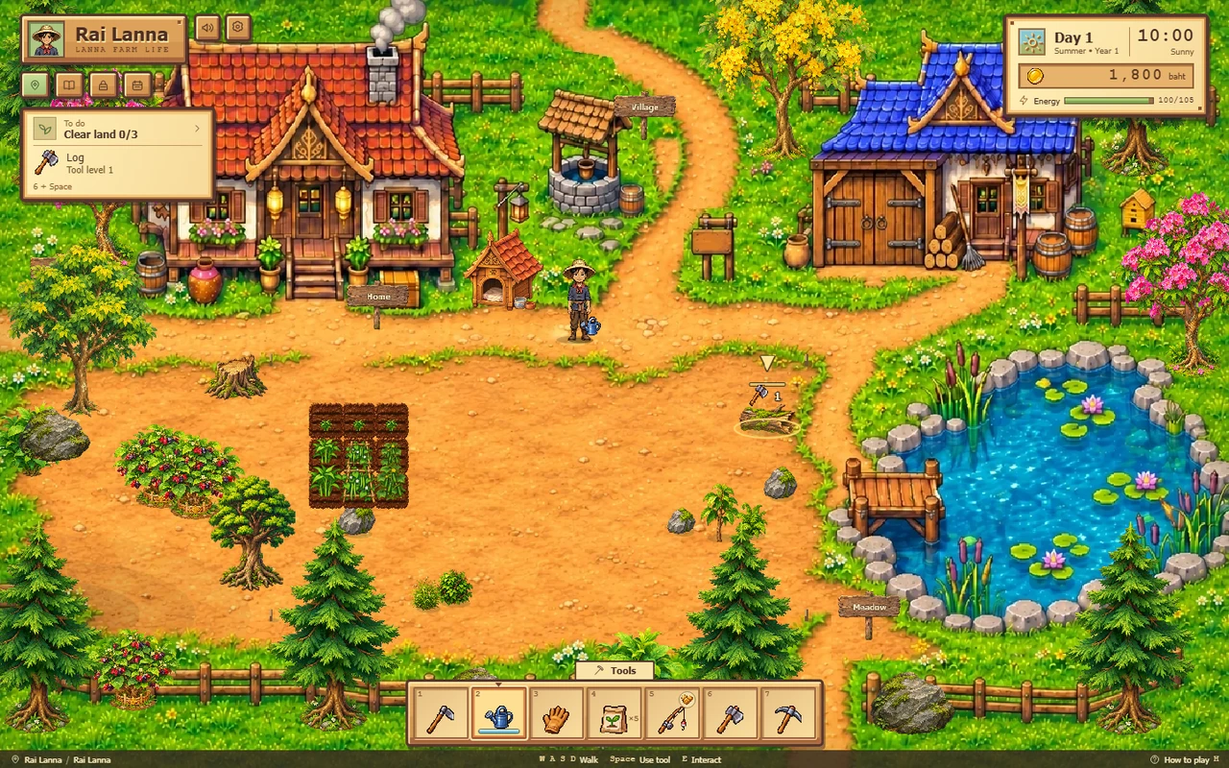
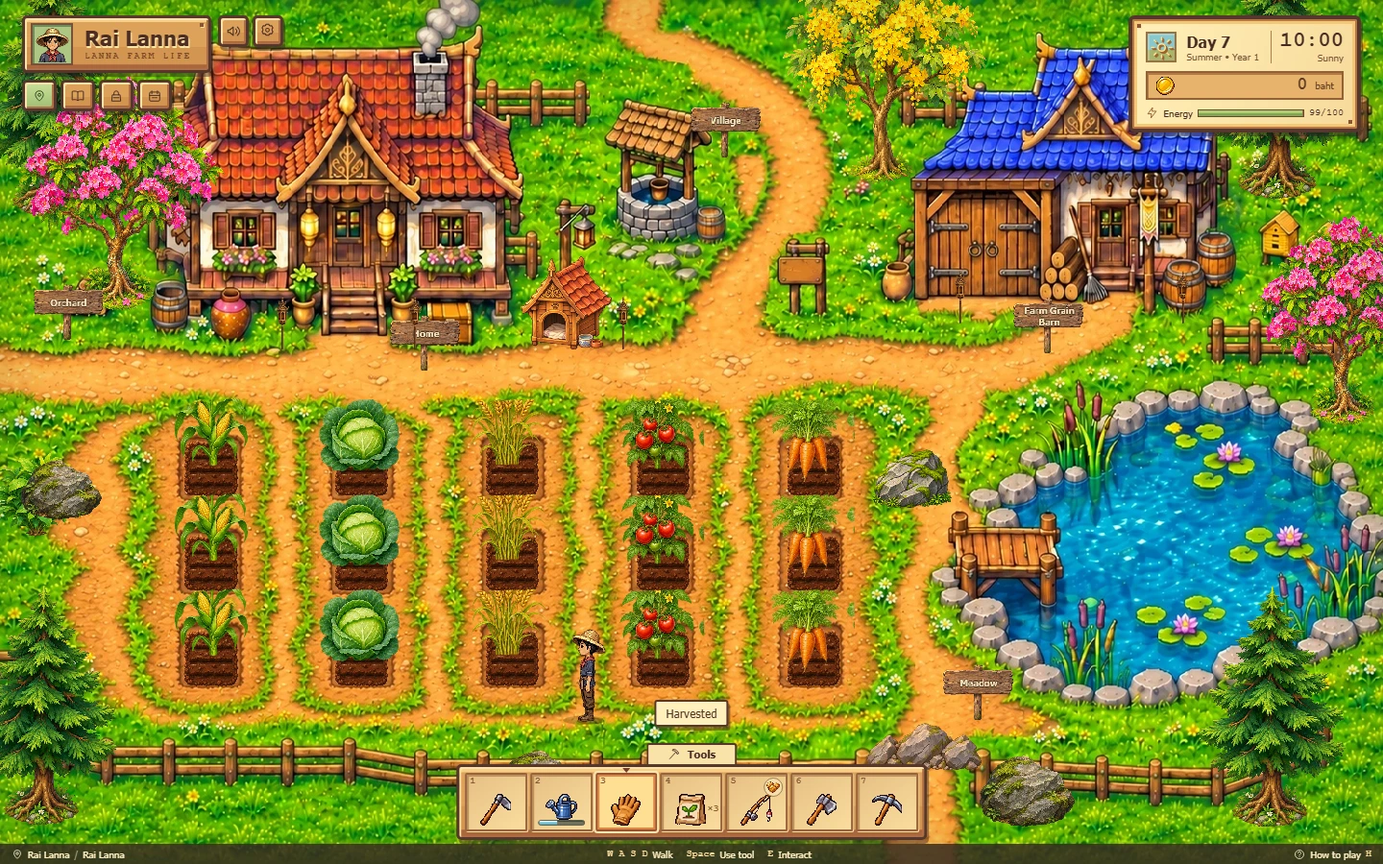
docs: update bilingual README with current crops, grain barn and ranch images
Refresh farm and greenhouse screenshots and document four crop growth stages,
wheat processing and feed, the domestic pig, and nighttime building lanterns.
Update the crop reference to 30 species and ranch count to 16, with item icons.

Publish only README files and the documentation media they reference.

diff --git a/README.th.md b/README.th.md
@@ -34,13 +34,13 @@
 
 <table>
   <tr>
-    <td align="center" width="25%">🌱<br><b>29</b><br>ชนิดพืช</td>
+    <td align="center" width="25%">🌱<br><b>30</b><br>ชนิดพืช</td>
     <td align="center" width="25%">🎣<br><b>43</b><br>ชนิดสัตว์น้ำ</td>
     <td align="center" width="25%">🥭<br><b>15</b><br>ชนิดไม้ผล</td>
     <td align="center" width="25%">💎<br><b>15</b><br>ชนิดแร่</td>
   </tr>
   <tr>
-    <td align="center" width="25%">🐄<br><b>15</b><br>ชนิดสัตว์ในคอก</td>
+    <td align="center" width="25%">🐄<br><b>16</b><br>ชนิดสัตว์ในคอก</td>
     <td align="center" width="25%">🏮<br><b>7</b><br>งานประเพณีต่อปี</td>
     <td align="center" width="25%">👥<br><b>36</b><br>ชาวบ้าน</td>
     <td align="center" width="25%">🌦<br><b>4 · 5</b><br>ฤดู · แบบอากาศ</td>
@@ -54,23 +54,21 @@
 > ภาพทุกภาพในหน้านี้ถ่ายจากเกมจริง บางภาพจัดฉากก่อนถ่าย (ปลูกพืชไว้แล้ว ซื้อสัตว์ไว้แล้ว) เพื่อให้ภาพเดียวเห็นทั้งระบบ
 
 > ภาพและฟีเจอร์อ้างอิงรุ่นพัฒนาปัจจุบัน การอัปเดตครั้งนี้เผยแพร่เฉพาะเอกสารและภาพประกอบ โค้ดเกมรุ่นใหม่ยังไม่ถูกรวม
-> ภาพหน้าจอถ่ายใหม่จากเกมที่รันอยู่เมื่อ 15 พฤศจิกายน 2026 ไอคอนในตารางใช้รูปไอเทมจากเกมจริง
+> ภาพฟาร์ม เรือนกระจก ข้าวสาลี โรงฟัดข้าว หมูบ้าน และโคมไฟกลางคืนถ่ายจากเกมที่รันอยู่เมื่อ 16 พฤศจิกายน 2026 ภาพอื่นแสดงระบบที่ยังเหมือนเดิม ไอคอนในตารางใช้รูปไอเทมจากเกมจริง
 
 ## 🆕 ส่วนที่เพิ่มล่าสุด
 
-- ศูนย์วิจัยผลไม้ขนาดใกล้เคียงบ้านชาวบ้านพร้อมถนนทางเข้าในป่าผักหวาน บ้านหลังคาแดงเลื่อนขึ้นด้านบน
-- ภาพเทศกาล7ธีมเปลี่ยนทั้งหมู่บ้าน ตลาด ตลาดสด ปศุสัตว์และบ้าน NPC กลับเป็นฉากปกติเมื่อหมดงานหรือมีพายุ
-- แปลงสองมีความสำเร็จสำหรับปลดล็อก และมีโรงเรือนลับที่ป้องกันฝนเสียหาย แมลง และวัชพืช แต่ยังต้องรดน้ำ
-- แมลงและวัชพืชเริ่มเมื่อเลเวล 10 ทำบุญถวายผลผลิตได้ทุก 7 วัน รับโชค +3 นาน 7 วันและไม่ซ้อนทับกัน
-- ปศุสัตว์ไม่มีเงื่อนไขเลเวลหรือเทศกาลในการซื้อ แต่สัตว์และอาหารราคาแพง สุนัข/แมวใช้เงื่อนไขรับเลี้ยงแยกต่างหาก
+- **ช่องปลูกขนาดใหม่:** หน้าบ้านและเรือนกระจกจัดเป็น 5 คอลัมน์ คอลัมน์ละ 3 ต้น มีทางเดินระหว่างแปลง ช่องใหญ่ขึ้น 1.5 เท่า และภาพพืชโตเต็มที่ใหญ่ขึ้น 2 เท่าจากรุ่นก่อน ต้องพรวนดินก่อนหว่านเมล็ด
+- **พืช 30 ชนิด เติบโต 4 ระยะ:** เมล็ด → ต้นอ่อน → ต้นยังโตไม่เต็ม → โตเต็มที่พร้อมเก็บเกี่ยว เพิ่มข้าวสาลีเป็นชนิดล่าสุด
+- **โรงฟัดข้าวใช้งานได้:** ซื้อสัตว์ปศุสัตว์ตัวแรกเพื่อเปิดโรงเรือนหลังคาฟ้าข้างบ้าน นำข้าวสาลีไปฟัดเป็นเมล็ดสะอาดสำหรับเลี้ยงสัตว์
+- **ปศุสัตว์ 16 ชนิด:** เพิ่มหมูบ้านสีชมพูแยกจากหมูป่าเลี้ยง ให้อาหารแล้วได้รับปุ๋ยคอกหมู
+- **โคมไฟกลางคืน:** หน้าบ้านตัวเอก โรงฟัดข้าว บ้านสัตว์ บ้าน NPC และอาคารสาธารณะมีโคมไฟ ส่องสว่างเวลา 18:00–05:59
+- **เรือนกระจกและช่วงเริ่มเกม:** แปลงสองและเรือนกระจกลับมีเงื่อนไขความก้าวหน้าสำหรับปลดล็อก เรือนกระจกมีบ่อเติมบัวรดน้ำ ปลูกได้ทุกฤดู ป้องกันแมลง วัชพืช และความเสียหายจากอากาศ แปลงภายนอกเริ่มมีแมลงและวัชพืชในพืชเมื่อเลเวล 10 ทำบุญได้ทุก 7 วัน รับโชค +3 นาน 7 วันและไม่ซ้อนทับกัน
 
-<table><tr><td width="50%"><img src="docs/readme/research-center-th.webp" alt="research-center"></td><td width="50%"><img src="docs/readme/research-shop-th.webp" alt="research-shop"></td></tr></table>
-
-<table><tr><td width="50%"><img src="docs/readme/festival-village-th.webp" alt="festival-village"></td><td width="50%"><img src="docs/readme/festival-ranch-th.webp" alt="festival-ranch"></td></tr></table>
-
-<table><tr><td width="50%"><img src="docs/readme/festival-market-th.webp" alt="festival-market"></td><td width="50%"><img src="docs/readme/greenhouse-th.webp" alt="greenhouse"></td></tr></table>
-
-<table><tr><td width="50%"><img src="docs/readme/early-crops-th.webp" alt="early-crops"></td><td width="50%"><img src="docs/readme/weekly-merit-th.webp" alt="weekly-merit"></td></tr></table>
+<table>
+  <tr><td width="50%"><img src="docs/readme/greenhouse-th.webp" alt="แปลงเรือนกระจกขนาดใหม่และบ่อเติมน้ำ"></td><td width="50%"><img src="docs/readme/wheat-threshing-th.webp" alt="ฟัดรวงข้าวสาลีเป็นเมล็ดสำหรับเลี้ยงสัตว์"></td></tr>
+  <tr><td align="center">แปลงเรือนกระจกขนาดใหม่และบ่อเติมน้ำ</td><td align="center">ฟัดรวงข้าวสาลีเป็นเมล็ดสำหรับเลี้ยงสัตว์</td></tr>
+</table>
 
 ## 🚀 เริ่มเล่น
 
@@ -164,12 +162,20 @@ npm run dev
 
 ### 🌱 ฟาร์ม พืช และอากาศ
 
-- **พืช 29 ชนิด** ปลูกในแปลงข้างบ้านและรดน้ำทุกวัน เมล็ดขายที่ร้านเมล็ดพันธุ์ในกาดเวียงคำ ราคาและเวลาโตต่างกันไปตามชนิด
+- **พืช 30 ชนิด** พรวนดินเป็นช่อง หว่านเมล็ด และรดน้ำในแต่ละวัน แปลงหน้าบ้านมีช่องปลูกขนาดใหญ่ 15 ช่อง จัดเป็น 5 คอลัมน์ คอลัมน์ละ 3 ต้น พร้อมทางเดิน ซื้อเมล็ดได้ที่ร้านเมล็ดพันธุ์ในกาดเวียงคำ
+- **เห็นการเติบโต 4 ระยะ** หว่านแล้วเห็นเมล็ด ก่อนกลายเป็นต้นอ่อน ต้นยังโตไม่เต็ม และต้นโตเต็มที่ ระยะเติบโตเพิ่มตามวันที่ได้รับน้ำ ข้าวสาลีใช้ 6 วัน ปลูกได้ในฤดูหนาว ใบไม้ผลิ และร้อน
 - **4 ฤดู** ร้อน → ใบไม้ร่วง → หนาว → ใบไม้ผลิ ฤดูละ 14 วัน (ปีละ 56 วัน) พืชที่ทนฤดูใหม่ไม่ได้จะเหี่ยว และเกมเตือนล่วงหน้า 3 วัน
 - **อากาศ 5 แบบ** แดด ฝน แดดจัด พายุฝน และหิมะ มีพยากรณ์ของวันพรุ่งนี้เสมอ ฝนรดน้ำแปลงให้ พายุทำให้พืชเฉาได้ แดดจัดทำให้ทุกงานเหนื่อยขึ้น
-- **กลางวันกลางคืน** ท้องฟ้ามืดลงตามเวลา และโคมไฟที่วางไว้จะสว่างหลังพลบค่ำ
-- **เติมน้ำบัวรดน้ำ** เติมหนึ่งครั้งรดได้ 10 ช่อง หรือ 20 ช่องเมื่อใช้บัวทองแดง แถบสีฟ้าใต้รูปบัวแสดงระดับน้ำ เลือกบัวที่บ่อในไร่ สระ หรือชายทะเลเพื่อเติมน้ำ
+- **กลางวันกลางคืน** ท้องฟ้ามืดลงตามเวลา โคมไฟหน้าอาคารและโคมที่ผู้เล่นวางส่องสว่างเวลา 18:00–05:59
+- **เติมน้ำบัวรดน้ำ** เติมหนึ่งครั้งรดได้ 10 ช่อง หรือ 20 ช่องเมื่อใช้บัวทองแดง แถบสีฟ้าใต้รูปบัวแสดงระดับน้ำ เลือกบัวที่บ่อในไร่ สระ ชายทะเล หรือบ่อในเรือนกระจกเพื่อเติมน้ำ
 - **กระเป๋าเป็นรูปไอเทม** หน้าต่างกระเป๋ามีขนาดกะทัดรัด แสดงของเป็นช่องรูปเล็ก เลือกแท็บหมวดหมู่และปุ่มก่อนหน้า–ถัดไปเพื่อดูของโดยไม่ต้องเลื่อนขึ้นลง เริ่ม 15 ช่อง นับหนึ่งช่องต่อชนิด ของชนิดเดิมเพิ่มจำนวนได้แม้กระเป๋าเต็ม ซื้อเพิ่มจากต้นกล้าครั้งละ 10 ช่องจนถึง 150 ช่อง ครั้งสุดท้ายเพิ่ม 5 ช่อง ราคาทวีคูณจาก ฿200 จนถึง ฿1,638,400 ในการซื้อครั้งที่ 14
+
+ภาพขยายจากแปลงข้าวสาลีเดียวกันในเกมจริง แสดงแต่ละระยะการเติบโต
+
+<table>
+  <tr><td width="25%"><img src="docs/readme/wheat-seeds.webp" alt="1 · เมล็ด"></td><td width="25%"><img src="docs/readme/wheat-seedling.webp" alt="2 · ต้นอ่อน"></td><td width="25%"><img src="docs/readme/wheat-young.webp" alt="3 · ยังโตไม่เต็ม"></td><td width="25%"><img src="docs/readme/wheat-ripe.webp" alt="4 · พร้อมเก็บเกี่ยว"></td></tr>
+  <tr><td align="center">1 · เมล็ด</td><td align="center">2 · ต้นอ่อน</td><td align="center">3 · ยังโตไม่เต็ม</td><td align="center">4 · พร้อมเก็บเกี่ยว</td></tr>
+</table>
 
 ### 🎣 ตกปลา
 
@@ -189,6 +195,11 @@ npm run dev
 - กิ่งพันธุ์ 15 ชนิดปลดล็อกเป็น 7 รุ่นตามเลเวล 1–30 ราคาเพิ่มเท่าตัวตามรุ่น ตั้งแต่ 150 ถึง 9,600 บาท รดน้ำครบหนึ่งปีในเกมจึงโตและออกผลตามฤดู
 - ปุ๋ยเพิ่มผลผลิต พายุอาจทำผลไม้ร่วง เตาในห้องกินข้าวแปรรูปผลไม้ 2 ชิ้นเป็นแยม 1 กระปุกข้ามคืน
 
+<table>
+  <tr><td width="50%"><img src="docs/readme/research-center-th.webp" alt="ศูนย์วิจัยผลไม้ในป่าผักหวาน"></td><td width="50%"><img src="docs/readme/research-shop-th.webp" alt="กิ่งพันธุ์และของจากศูนย์วิจัย"></td></tr>
+  <tr><td align="center">ศูนย์วิจัยผลไม้ในป่าผักหวาน</td><td align="center">กิ่งพันธุ์และของจากศูนย์วิจัย</td></tr>
+</table>
+
 <p align="center"><img src="docs/readme/journal-th.webp" alt="สมุดฟาร์มแบบกะทัดรัด แบ่งแท็บและเปลี่ยนหน้า" width="720"></p>
 
 สมุดฟาร์มขนาดกะทัดรัด แยกหมวดสถานะ ภารกิจ พืชผล แร่ ของสะสม และบันทึก ใช้แท็บกับปุ่มเปลี่ยนหน้าโดยไม่มีแถบเลื่อนแนวตั้ง
@@ -204,8 +215,27 @@ npm run dev
 
 ### 🐄 สัตว์ในคอกปศุสัตว์
 
-สัตว์ 15 ชนิดอยู่ที่คอกปศุสัตว์ (ไก่ เป็ด วัว แกะ แพะ หมู ควาย ม้า กระต่าย ห่าน นกกระทา ไก่งวง นกยูง ไก่ต๊อก และไก่แจ้) ซื้อสัตว์ ให้อาหารตัวละหนึ่งส่วนต่อวัน แล้วผลผลิต (ไข่ นม ขนแกะ) จะอยู่ในกระเป๋าเช้าวันถัดไป
-และสร้างเล้าไก่ไว้ในฟาร์มของตัวเองได้ด้วย
+**ปศุสัตว์ 16 ชนิด** มีไก่ เป็ด วัว แกะ แพะ หมูป่าเลี้ยง ควาย ม้า กระต่าย ห่าน นกกระทา ไก่งวง นกยูง ไก่ต๊อก ไก่แจ้ และหมูบ้านสีชมพู ซื้อได้โดยไม่มีเงื่อนไขเลเวลหรือเทศกาล แต่สัตว์และอาหารราคาแพง ให้อาหารตัวละ 1 ส่วนต่อวันเพื่อรับผลผลิตเช้าวันถัดไป สร้างเล้าไก่ในฟาร์มได้ด้วย
+
+หมูบ้านราคาซื้อ **27,200 บาท** ขายคืน **12,800 บาท** เมื่อให้อาหารจะได้ปุ๋ยคอกหมูมูลค่า **600 บาท** สุนัขและแมวยังใช้เงื่อนไขรับเลี้ยงแยกต่างหาก
+
+<table>
+  <tr><td width="50%"><img src="docs/readme/domestic-pig-th.webp" alt="หมูบ้านสีชมพูในคอกปศุสัตว์"></td><td width="50%"><img src="docs/readme/wheat-feed-th.webp" alt="ใช้เมล็ดข้าวสาลีฟัดแล้วเลี้ยงสัตว์"></td></tr>
+  <tr><td align="center">หมูบ้านสีชมพูในคอกปศุสัตว์</td><td align="center">ใช้เมล็ดข้าวสาลีฟัดแล้วเลี้ยงสัตว์</td></tr>
+</table>
+
+### 🌾 ข้าวสาลีและโรงฟัดข้าว
+
+โรงเรือนหลังคาฟ้าข้างบ้านเปิดถาวรเมื่อซื้อปศุสัตว์ตัวแรก การรับสุนัขหรือแมวไม่ปลดล็อกโรงเรือน เดินเข้าประตู ไปหน้าเครื่องแล้วกด **E** เลือกฟัดครั้งละ 1 หรือ 10 รวง: **ข้าวสาลี 1 รวง + พลังงาน 2 → เมล็ดสะอาด 3 ส่วน**
+
+สัตว์กินอาหารตัวละ 1 ส่วนต่อวัน ระบบใช้อาหารที่ซื้อมาก่อน แล้วจึงใช้เมล็ดข้าวสาลีฟัดแล้วทดแทนส่วนที่ขาด รวงข้าวดิบยังใช้เลี้ยงไม่ได้ เมล็ดสะอาดนำเข้าลังส่งของหรือขายที่ตลาดสดได้
+
+| ไอคอน | ไอเทม | ที่มา / การใช้ | ราคาขาย |
+|---|---|---|---|
+| <img src="docs/readme/icons/goods-wheatGrain.webp" alt="" width="32" height="32"> | เมล็ดข้าวสาลีฟัดแล้ว | ฟัดข้าวสาลี; 1 ส่วนเลี้ยงสัตว์ 1 ตัว | 25 |
+| <img src="docs/readme/icons/goods-hogManure.webp" alt="" width="32" height="32"> | ปุ๋ยคอกหมู | รับเช้าวันถัดไปจากหมูบ้านที่ได้รับอาหาร | 600 |
+
+<p align="center"><img src="docs/readme/grain-barn-th.webp" alt="ภายในโรงฟัดข้าวหลังคาฟ้า" width="85%"></p>
 
 ### 🏘 หมู่บ้าน ตลาด และเพื่อนบ้าน
 
@@ -220,6 +250,13 @@ npm run dev
 - **ป่าผักหวานและป่าไผ่ร่มเย็น** เก็บผักกูด ลูกหม่อนป่า และกล้วยป่าที่ป่าผักหวาน (ขึ้นใหม่ในไม่กี่วัน) และเก็บสมุนไพรกับไม้ไผ่ในป่าไผ่
 
 <p align="center"><img src="docs/readme/shop-th.webp" alt="ร้านค้าแบบแท็บและแบ่งหน้า" width="85%"></p>
+
+บ้าน NPC และอาคารสาธารณะทุกหลังมีโคมไฟหน้าบ้าน รวมถึงบริเวณศูนย์วิจัย โคมสว่างกลางคืนแม้เจ้าของบ้านเข้านอนแล้ว
+
+<table>
+  <tr><td width="50%"><img src="docs/readme/night-farm-th.webp" alt="แสงโคมหน้าอาคารในฟาร์มยามค่ำ"></td><td width="50%"><img src="docs/readme/night-village-th.webp" alt="โคมไฟบ้านชาวบ้านและอาคารสาธารณะ"></td></tr>
+  <tr><td align="center">แสงโคมหน้าอาคารในฟาร์มยามค่ำ</td><td align="center">โคมไฟบ้านชาวบ้านและอาคารสาธารณะ</td></tr>
+</table>
 
 ### 🏮 งานประเพณี 7 งานต่อปี
 
@@ -236,24 +273,31 @@ npm run dev
 | 🌾 ตานข้าวใหม่และประกวดพืชผล | ฤดูหนาว วันที่ 10 | 09:00–17:00 | ของที่แพงที่สุดในกระเป๋าได้รางวัล 4 เท่าของราคา |
 | 🌸 กาดดอกไม้บาน | ใบไม้ผลิ วันที่ 5 | 08:00–18:00 | เมล็ดผักกาดหอม 4 ซอง |
 
+ช่วงเทศกาล หมู่บ้าน ตลาดทั้งสองแห่ง ปศุสัตว์ บ้าน NPC และบริเวณศูนย์วิจัยผลไม้เปลี่ยนภาพให้เข้ากับงานนั้น
+
+<table>
+  <tr><td width="33%"><img src="docs/readme/festival-village-th.webp" alt="หมู่บ้านช่วงเทศกาล"></td><td width="33%"><img src="docs/readme/festival-ranch-th.webp" alt="ปศุสัตว์ช่วงเทศกาล"></td><td width="33%"><img src="docs/readme/festival-market-th.webp" alt="ตลาดช่วงเทศกาล"></td></tr>
+  <tr><td align="center">หมู่บ้านช่วงเทศกาล</td><td align="center">ปศุสัตว์ช่วงเทศกาล</td><td align="center">ตลาดช่วงเทศกาล</td></tr>
+</table>
+
 ### 🐕 ชุดและสัตว์เลี้ยง
 
-เปลี่ยนชุดที่ตู้เสื้อผ้าในบ้าน เลือกสุนัขหรือแมวที่บ้านสัตว์ข้างบ้านเมื่อเลเวล 10และชนะ 4 เทศกาลต่างกัน เลือกได้ครั้งเดียวและเปลี่ยนไม่ได้ ลูบหัวได้ทุกวันและเลือกให้เดินตามหรือรอที่บ้านได้
+เปลี่ยนชุดที่ตู้เสื้อผ้าในบ้าน เลือกสุนัขหรือแมวที่บ้านสัตว์ข้างบ้านเมื่อเลเวล 10 และชนะ 4 เทศกาลต่างกัน เลือกได้ครั้งเดียวและเปลี่ยนไม่ได้ ลูบหัวได้ทุกวันและเลือกให้เดินตามหรือรอที่บ้านได้
 
 <p align="center"><img src="docs/readme/wardrobe-th.webp" alt="ตู้เสื้อผ้าภายในบ้าน" width="85%"></p>
 
 ### 💾 บันทึกอัตโนมัติ
 
-เกมบันทึกลงเบราว์เซอร์ (localStorage) ทุกเช้าวันใหม่ และเซฟรุ่นเก่าจะถูกอัปเกรดเป็นรูปแบบปัจจุบันให้เอง
+เกมบันทึกในเบราว์เซอร์ (localStorage) ทุกเช้าวันใหม่ และปรับบันทึกเก่าเป็นรูปแบบปัจจุบันให้อัตโนมัติ รูปแบบ v16 เก็บโรงฟัดข้าวและระบบข้าวสาลีไว้ด้วย เมื่อปรับแปลงหน้าบ้านจากเซฟเก่าให้เหลือ 15 ช่อง ระบบเก็บต้นเดิมไว้เท่าที่ลงได้ และคืนต้นที่ยังมีชีวิตส่วนเกินเป็นเมล็ดหรือผลผลิตสุก
 บันทึกเองได้ที่ตั้งค่า หรือเลือกบันทึกและกลับหน้าแรก/ออกจากเกม ซึ่งจะบันทึกก่อนหยุดเล่น ปุ่มออกจากเกมหยุดเวลาและเสียง จากนั้นปิดแท็บเบราว์เซอร์ได้ การย้อนกลับจากหน้าตั้งชื่อฟาร์มใหม่จะไม่เขียนทับเซฟเดิม
 
 ## 📋 ตารางข้อมูลในเกม
 
 ข้อมูลด้านล่างดึงจากรุ่นพัฒนาปัจจุบัน ราคาเป็นเงินในเกม สินค้าหายากบางชนิดต้องใช้ตราจากการแข่งขันหรือปริศนาเพื่อปลดล็อกด้วย
 
-### พืชและผัก · 29 ชนิด
+### พืชและผัก · 30 ชนิด
 
-ระยะโตนับวันที่ได้รับน้ำ ฝนสามารถรดน้ำให้แปลงได้
+นับเวลาโตตามวันที่ได้รับน้ำ ฝนรดน้ำให้แปลงกลางแจ้ง เรือนกระจกปลูกได้ทุกชนิดทุกฤดู แต่ยังต้องรดน้ำเอง
 
 | ภาพ | ชนิด | ฤดูที่ปลูกได้ | วันโต | ราคาเมล็ด | ราคาขาย/ชิ้น |
 |---|---|---|---|---|---|
@@ -286,6 +330,7 @@ npm run dev
 | <img src="docs/readme/icons/crop-zucchini.webp" alt="" width="32" height="32"> | ซูกินี | ฤดูร้อน, ใบไม้ผลิ | 5 | 34 | 70 |
 | <img src="docs/readme/icons/crop-bellPepper.webp" alt="" width="32" height="32"> | พริกหวาน | ฤดูร้อน, ใบไม้ร่วง | 7 | 57 | 119 |
 | <img src="docs/readme/icons/crop-lettuce.webp" alt="" width="32" height="32"> | ผักกาดหอม | ใบไม้ผลิ, ฤดูหนาว, ใบไม้ร่วง | 4 | 24 | 46 |
+| <img src="docs/readme/icons/crop-wheat.webp" alt="" width="32" height="32"> | ข้าวสาลี | ฤดูหนาว, ใบไม้ผลิ, ฤดูร้อน | 6 | 30 | 65 |
 
 ### ไม้ผล · 15 ชนิด
 
@@ -422,7 +467,7 @@ npm run dev
 - [x] ตกปลา (มุมมองบุคคลที่หนึ่ง มีเหยื่อ)
 - [x] ~~นาข้าว~~ ถอดออกแล้ว ใช้การขยายที่ดินและทุ่งบุกเบิกแทน
 - [x] สวนผลไม้ (พร้อมแยมผลไม้)
-- [x] สัตว์ 15 ชนิด
+- [x] ปศุสัตว์ 16 ชนิด โรงฟัดข้าวและอาหารจากข้าวสาลี
 - [x] หมู่บ้าน เพื่อนบ้าน งานประเพณี (พร้อมแผงตลาดสดและปฏิทิน)
 - [x] ขุดแร่ เลเวล เครื่องมือ และของป่า
 - [x] กระเป๋ารูปไอเทมที่ขยายได้ ปริศนาที่ซ่อนอยู่ และร้านค้าปลดล็อกด้วยตรา

diff --git a/README.md b/README.md
@@ -34,13 +34,13 @@ The game is in English by default and can be switched to Thai at any time.
 
 <table>
   <tr>
-    <td align="center" width="25%">🌱<br><b>29</b><br>crops</td>
+    <td align="center" width="25%">🌱<br><b>30</b><br>crops</td>
     <td align="center" width="25%">🎣<br><b>43</b><br>aquatic species</td>
     <td align="center" width="25%">🥭<br><b>15</b><br>fruit trees</td>
     <td align="center" width="25%">💎<br><b>15</b><br>ores</td>
   </tr>
   <tr>
-    <td align="center" width="25%">🐄<br><b>15</b><br>ranch animals</td>
+    <td align="center" width="25%">🐄<br><b>16</b><br>ranch animals</td>
     <td align="center" width="25%">🏮<br><b>7</b><br>festivals a year</td>
     <td align="center" width="25%">👥<br><b>36</b><br>villagers</td>
     <td align="center" width="25%">🌦<br><b>4 · 5</b><br>seasons · kinds of weather</td>
@@ -54,23 +54,21 @@ The game is in English by default and can be switched to Thai at any time.
 > Every picture on this page is taken from the real game. Some were staged first (crops already planted, animals already bought) so one picture can show a whole system.
 
 > Screenshots and features describe the current development build. This update publishes documentation and screenshots only; the newer gameplay implementation is not included.
-> Screenshots were retaken from the running game on 15 November 2026. Table icons use the actual in-game item artwork.
+> Farm, greenhouse, wheat, barn, pig and night-lighting screenshots were captured from the running game on 16 November 2026. Other images show unchanged systems. Table icons use the actual in-game item artwork.
 
 ## 🆕 Latest additions
 
-- A cottage-sized Fruit Research Center with a connected entrance in Sweetleaf Glade; its red-roofed neighbour now stands farther north.
-- Seven festival themes repaint the village, both markets, the ranch and NPC homes, returning to normal after the event or a storm cancellation.
-- The second field has milestone access. A secluded greenhouse protects crops from weather damage, insects and weeds, while still requiring watering.
-- Crop insects and weeds begin at level 10. Temple offerings grant Luck +3 for seven days, once every seven days, without stacking.
-- Livestock have no level/festival purchase requirements; animals and feed are costly. Dogs/cats retain their separate adoption conditions.
+- **Larger planting spaces:** the cottage field and greenhouse each have five columns of three plants with walking aisles. Slots are 1.5× their previous size; mature crop artwork is 2× its previous size. Till the ground before sowing.
+- **30 crops with four growth stages:** visible seeds → seedling → immature plant → harvest-ready plant. Wheat is the newest crop.
+- **A working grain barn:** buy your first livestock animal to open the blue-roofed barn beside the cottage. Thresh wheat into clean grain and use it as animal feed.
+- **16 livestock kinds:** the new pink domestic pig is separate from the forest pig and produces pig compost when fed.
+- **Night lighting:** permanent front lanterns illuminate the cottage, barn, pet house, NPC homes and public buildings from 18:00 to 05:59.
+- **Protected growing and early-game pacing:** the second field and hidden greenhouse have their own progression milestones. The greenhouse has a refill basin, grows crops all year and prevents insects, weeds and weather damage. Insects and crop weeds elsewhere begin at level 10. Temple offerings grant Luck +3 for seven days, once every seven days, without stacking.
 
-<table><tr><td width="50%"><img src="docs/readme/research-center.webp" alt="research-center"></td><td width="50%"><img src="docs/readme/research-shop.webp" alt="research-shop"></td></tr></table>
-
-<table><tr><td width="50%"><img src="docs/readme/festival-village.webp" alt="festival-village"></td><td width="50%"><img src="docs/readme/festival-ranch.webp" alt="festival-ranch"></td></tr></table>
-
-<table><tr><td width="50%"><img src="docs/readme/festival-market.webp" alt="festival-market"></td><td width="50%"><img src="docs/readme/greenhouse.webp" alt="greenhouse"></td></tr></table>
-
-<table><tr><td width="50%"><img src="docs/readme/early-crops.webp" alt="early-crops"></td><td width="50%"><img src="docs/readme/weekly-merit.webp" alt="weekly-merit"></td></tr></table>
+<table>
+  <tr><td width="50%"><img src="docs/readme/greenhouse.webp" alt="Larger greenhouse beds and the refill basin"></td><td width="50%"><img src="docs/readme/wheat-threshing.webp" alt="Wheat sheaves become clean animal feed"></td></tr>
+  <tr><td align="center">Larger greenhouse beds and the refill basin</td><td align="center">Wheat sheaves become clean animal feed</td></tr>
+</table>
 
 ## 🚀 Getting started
 
@@ -162,12 +160,20 @@ Keyboard controls cover gameplay, menus, shops, pages, puzzles and fishing. Mous
 
 ### 🌱 Farm, crops and weather
 
-- **29 crops.** Grow them in the field by the cottage and water them every day. Seeds are sold at the seed shop in Wiang Kham Market; price and growing time differ by crop.
+- **30 crops.** Hoe a square, sow seeds, then water it on each growing day. The cottage field has 15 larger planting spaces in five columns of three, with aisles between columns. Seeds are sold at the seed shop in Wiang Kham Market.
+- **Four visible stages.** Newly sown seeds remain visible before becoming seedlings, immature plants and fully grown crops. Growth advances on watered days. Wheat takes six watered days and grows in winter, spring and summer.
 - **4 seasons.** Summer → autumn → winter → spring, 14 days each (56 days a year). Crops that cannot stand the new season wither, and the game warns you 3 days ahead.
 - **5 kinds of weather.** Sunny, rain, heatwave, storm and snow, always with a forecast for tomorrow. Rain waters the field for you, a storm can wilt plants and a heatwave makes every job more tiring.
-- **Day and night.** The sky darkens with the clock and the lamps you have placed light up after dark.
-- **Refill the watering can.** A fill waters 10 times (20 with the copper can). The blue bar below the can shows its water level. Select the can at the farm pond, lake or shore to refill it.
+- **Day and night.** The sky darkens with the clock. Building front lanterns and player-placed lamps light up from 18:00 to 05:59.
+- **Refill the watering can.** A fill waters 10 times (20 with the copper can). The blue bar below the can shows its water level. Select the can at the farm pond, lake, shore or greenhouse basin to refill it.
 - **Picture inventory.** The bag is a compact window of small picture cells. Use category tabs and Previous/Next buttons to browse items without vertical scrolling. Start with 15 slots, one per kind of item. Existing stacks still accept more when the bag is full. Tonkla sells 10 more slots per upgrade, up to 150; the final upgrade adds 5. Prices double from ฿200 to ฿1,638,400 on the fourteenth purchase.
+
+Cropped gameplay views of the same wheat plot at each growth stage.
+
+<table>
+  <tr><td width="25%"><img src="docs/readme/wheat-seeds.webp" alt="1 · Seeds"></td><td width="25%"><img src="docs/readme/wheat-seedling.webp" alt="2 · Seedling"></td><td width="25%"><img src="docs/readme/wheat-young.webp" alt="3 · Immature plant"></td><td width="25%"><img src="docs/readme/wheat-ripe.webp" alt="4 · Ready to harvest"></td></tr>
+  <tr><td align="center">1 · Seeds</td><td align="center">2 · Seedling</td><td align="center">3 · Immature plant</td><td align="center">4 · Ready to harvest</td></tr>
+</table>
 
 ### 🎣 Fishing
 
@@ -187,6 +193,11 @@ Keyboard controls cover gameplay, menus, shops, pages, puzzles and fishing. Mous
 - Fifteen sapling types unlock in seven level tiers (1–30). Prices double by tier, from ฿150 to ฿9,600. Water trees for a full in-game year before they bear fruit in their seasons.
 - Fertilizer increases fruit yield; storms can knock fruit down. The dining-room stove turns two fruit into a jar of jam overnight.
 
+<table>
+  <tr><td width="50%"><img src="docs/readme/research-center.webp" alt="Fruit Research Center in Sweetleaf Glade"></td><td width="50%"><img src="docs/readme/research-shop.webp" alt="Saplings and research supplies"></td></tr>
+  <tr><td align="center">Fruit Research Center in Sweetleaf Glade</td><td align="center">Saplings and research supplies</td></tr>
+</table>
+
 <p align="center"><img src="docs/readme/journal.webp" alt="Compact farm journal with category tabs and pages" width="720"></p>
 
 The compact journal separates status, quests, crops, ore, collections and notes into tabs and pages, with no vertical scrolling.
@@ -202,8 +213,27 @@ The compact journal separates status, quests, crops, ore, collections and notes 
 
 ### 🐄 Ranch animals
 
-15 kinds of animal live at the Livestock Ranch, including hens, ducks, cows, sheep, goats, buffalo and peafowl. Buy animals, feed each one a portion a day, and their produce is in your bag next morning.
-You can also have a chicken coop built on your own farm.
+**16 kinds** live at the Livestock Ranch, including hens, ducks, cows, sheep, goats, forest pigs and the new pink domestic pig. Purchases have no level or festival requirement, but animals and feed are expensive. Feed each animal one portion a day to receive its produce the next morning. You can also have a chicken coop built on your farm.
+
+A domestic pig costs **฿27,200**, sells for **฿12,800** and produces pig compost worth **฿600** when fed. Dogs and cats keep their separate adoption conditions.
+
+<table>
+  <tr><td width="50%"><img src="docs/readme/domestic-pig.webp" alt="Pink domestic pig at the ranch"></td><td width="50%"><img src="docs/readme/wheat-feed.webp" alt="Feed the herd with cleaned wheat grain"></td></tr>
+  <tr><td align="center">Pink domestic pig at the ranch</td><td align="center">Feed the herd with cleaned wheat grain</td></tr>
+</table>
+
+### 🌾 Wheat and the grain barn
+
+The blue-roofed barn beside the cottage opens permanently after your first successful livestock purchase. Buying a dog or cat does not open it. Walk through the barn entrance, approach the thresher and press **E**. Process one or ten sheaves at a time: **1 wheat sheaf + 2 energy → 3 portions of clean grain**.
+
+Each animal eats one portion per day. Herd care uses bought feed first, then cleaned wheat grain for any shortage. Raw wheat sheaves cannot be fed directly. Clean grain can also be shipped or sold at the fresh market.
+
+| Icon | Item | Source / use | Sale price |
+|---|---|---|---|
+| <img src="docs/readme/icons/goods-wheatGrain.webp" alt="" width="32" height="32"> | Clean wheat grain | Thresh wheat; one portion feeds one animal | 25 |
+| <img src="docs/readme/icons/goods-hogManure.webp" alt="" width="32" height="32"> | Pig compost | Collected next morning from a fed domestic pig | 600 |
+
+<p align="center"><img src="docs/readme/grain-barn.webp" alt="Inside the blue-roofed grain barn" width="85%"></p>
 
 ### 🏘 Village, markets and neighbours
 
@@ -218,6 +248,13 @@ You can also have a chicken coop built on your own farm.
 - **Sweetleaf Glade and Bamboo Forest.** Gather fiddlehead ferns, wild mulberries and wild bananas in the glade (they grow back in a few days), and herbs and bamboo in the forest.
 
 <p align="center"><img src="docs/readme/shop.webp" alt="Shop categories and pagination" width="85%"></p>
+
+Every NPC home and public building has front lanterns, including the research area. They stay lit at night even when residents have gone to bed.
+
+<table>
+  <tr><td width="50%"><img src="docs/readme/night-farm.webp" alt="Farm buildings after dark"></td><td width="50%"><img src="docs/readme/night-village.webp" alt="Village homes and public lighting"></td></tr>
+  <tr><td align="center">Farm buildings after dark</td><td align="center">Village homes and public lighting</td></tr>
+</table>
 
 ### 🏮 Seven festivals a year
 
@@ -234,6 +271,13 @@ The morning report announces a festival 2 days ahead with what to bring, and the
 | 🌾 New Rice Offering & Crop Contest | Winter, day 10 | 09:00–17:00 | The dearest item in your bag wins 4× its price |
 | 🌸 Blossom Fair | Spring, day 5 | 08:00–18:00 | 4 packs of lettuce seeds |
 
+Festival artwork changes the village, both markets, ranch, NPC homes and the Fruit Research Center area to match the event.
+
+<table>
+  <tr><td width="33%"><img src="docs/readme/festival-village.webp" alt="Festival village"></td><td width="33%"><img src="docs/readme/festival-ranch.webp" alt="Festival ranch"></td><td width="33%"><img src="docs/readme/festival-market.webp" alt="Festival market"></td></tr>
+  <tr><td align="center">Festival village</td><td align="center">Festival ranch</td><td align="center">Festival market</td></tr>
+</table>
+
 ### 🐕 Outfits and pets
 
 Change clothes at the painted wardrobe inside the cottage. Adopt one permanent dog or cat at the Pet House beside the farm cottage after level 10 and four different festival wins. The choice cannot be changed; daily petting and following/staying home remain available.
@@ -242,16 +286,16 @@ Change clothes at the painted wardrobe inside the cottage. Adopt one permanent d
 
 ### 💾 Autosave
 
-The game saves into the browser (localStorage) every new morning, and older saves are upgraded to the current format automatically.
+The game saves into the browser (localStorage) every new morning, and older saves are upgraded to the current format automatically. Save format v16 preserves the new barn and wheat systems. When an old cottage field is resized to 15 spaces, plants are kept where possible; surplus living plants are returned as seeds or ripe produce.
 You can also save from Settings or choose **Save & title** / **Exit game**, which save before stopping the session. Exit pauses the game and sound; close the browser tab to leave. Cancelling the new-farm form preserves the existing save.
 
 ## 📋 In-game reference tables
 
 Values below come from the current development build. Prices use in-game baht. Rare shop items can also require seals earned from festivals or puzzles.
 
-### Crops and vegetables · 29 types
+### Crops and vegetables · 30 types
 
-Growth counts watered days; rain can water the field for you.
+Growth counts watered days; rain can water outdoor fields. The protected greenhouse grows every crop in every season, but still needs manual watering.
 
 | Icon | Crop | Growing seasons | Days | Seed price | Sale price/item |
 |---|---|---|---|---|---|
@@ -284,6 +328,7 @@ Growth counts watered days; rain can water the field for you.
 | <img src="docs/readme/icons/crop-zucchini.webp" alt="" width="32" height="32"> | Zucchini | Summer, Spring | 5 | 34 | 70 |
 | <img src="docs/readme/icons/crop-bellPepper.webp" alt="" width="32" height="32"> | Bell pepper | Summer, Autumn | 7 | 57 | 119 |
 | <img src="docs/readme/icons/crop-lettuce.webp" alt="" width="32" height="32"> | Lettuce | Spring, Winter, Autumn | 4 | 24 | 46 |
+| <img src="docs/readme/icons/crop-wheat.webp" alt="" width="32" height="32"> | Wheat | Winter, Spring, Summer | 6 | 30 | 65 |
 
 ### Fruit trees · 15 types
 
@@ -420,7 +465,7 @@ Bait multipliers change rare fish selection weights, not a guaranteed catch rate
 - [x] Fishing (first-person view, bait)
 - [x] ~~Rice paddy~~ removed; land expansion and the Frontier Meadow replace it
 - [x] Orchard (with fruit jam)
-- [x] 15 ranch animals
+- [x] 16 ranch animals, wheat threshing and grain feed
 - [x] Village, neighbours, festivals (with the fresh-market stall and the calendar)
 - [x] Mining, levels, tools and wild food
 - [x] Expandable picture inventory, hidden shrine puzzles and seal-locked shops
